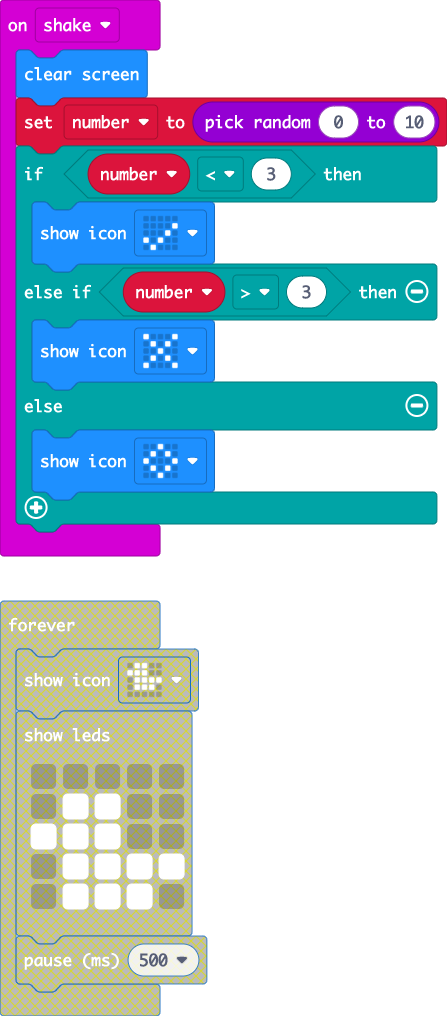
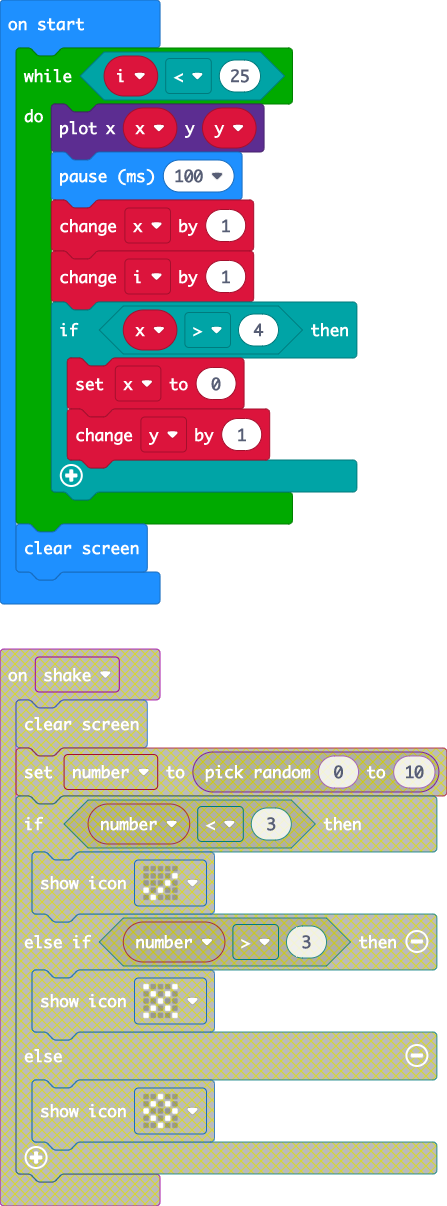
Update pxt.json, main.blocks, main.ts, main.py

diff --git a/main.ts b/main.ts
@@ -1,14 +1,15 @@
-let number = 0
-input.onGesture(Gesture.Shake, function on_gesture_shake() {
-    
-    basic.clearScreen()
-    number = randint(0, 10)
-    if (number < 3) {
-        basic.showIcon(IconNames.Yes)
-    } else if (number > 3) {
-        basic.showIcon(IconNames.No)
-    } else {
-        basic.showIcon(IconNames.Diamond)
+let y = 0
+let x = 0
+let i = 0
+while (i < 25) {
+    led.plot(x, y)
+    basic.pause(100)
+    x += 1
+    i += 1
+    if (x > 4) {
+        x = 0
+        y += 1
     }
     
-})
+}
+basic.clearScreen()

diff --git a/main.py b/main.py
@@ -1,13 +1,12 @@
-number = 0
-
-def on_gesture_shake():
-    global number
-    basic.clear_screen()
-    number = randint(0, 10)
-    if number < 3:
-        basic.show_icon(IconNames.YES)
-    elif number > 3:
-        basic.show_icon(IconNames.NO)
-    else:
-        basic.show_icon(IconNames.DIAMOND)
-input.on_gesture(Gesture.SHAKE, on_gesture_shake)
+y = 0
+x = 0
+i = 0
+while i < 25:
+    led.plot(x, y)
+    basic.pause(100)
+    x += 1
+    i += 1
+    if x > 4:
+        x = 0
+        y += 1
+basic.clear_screen()
